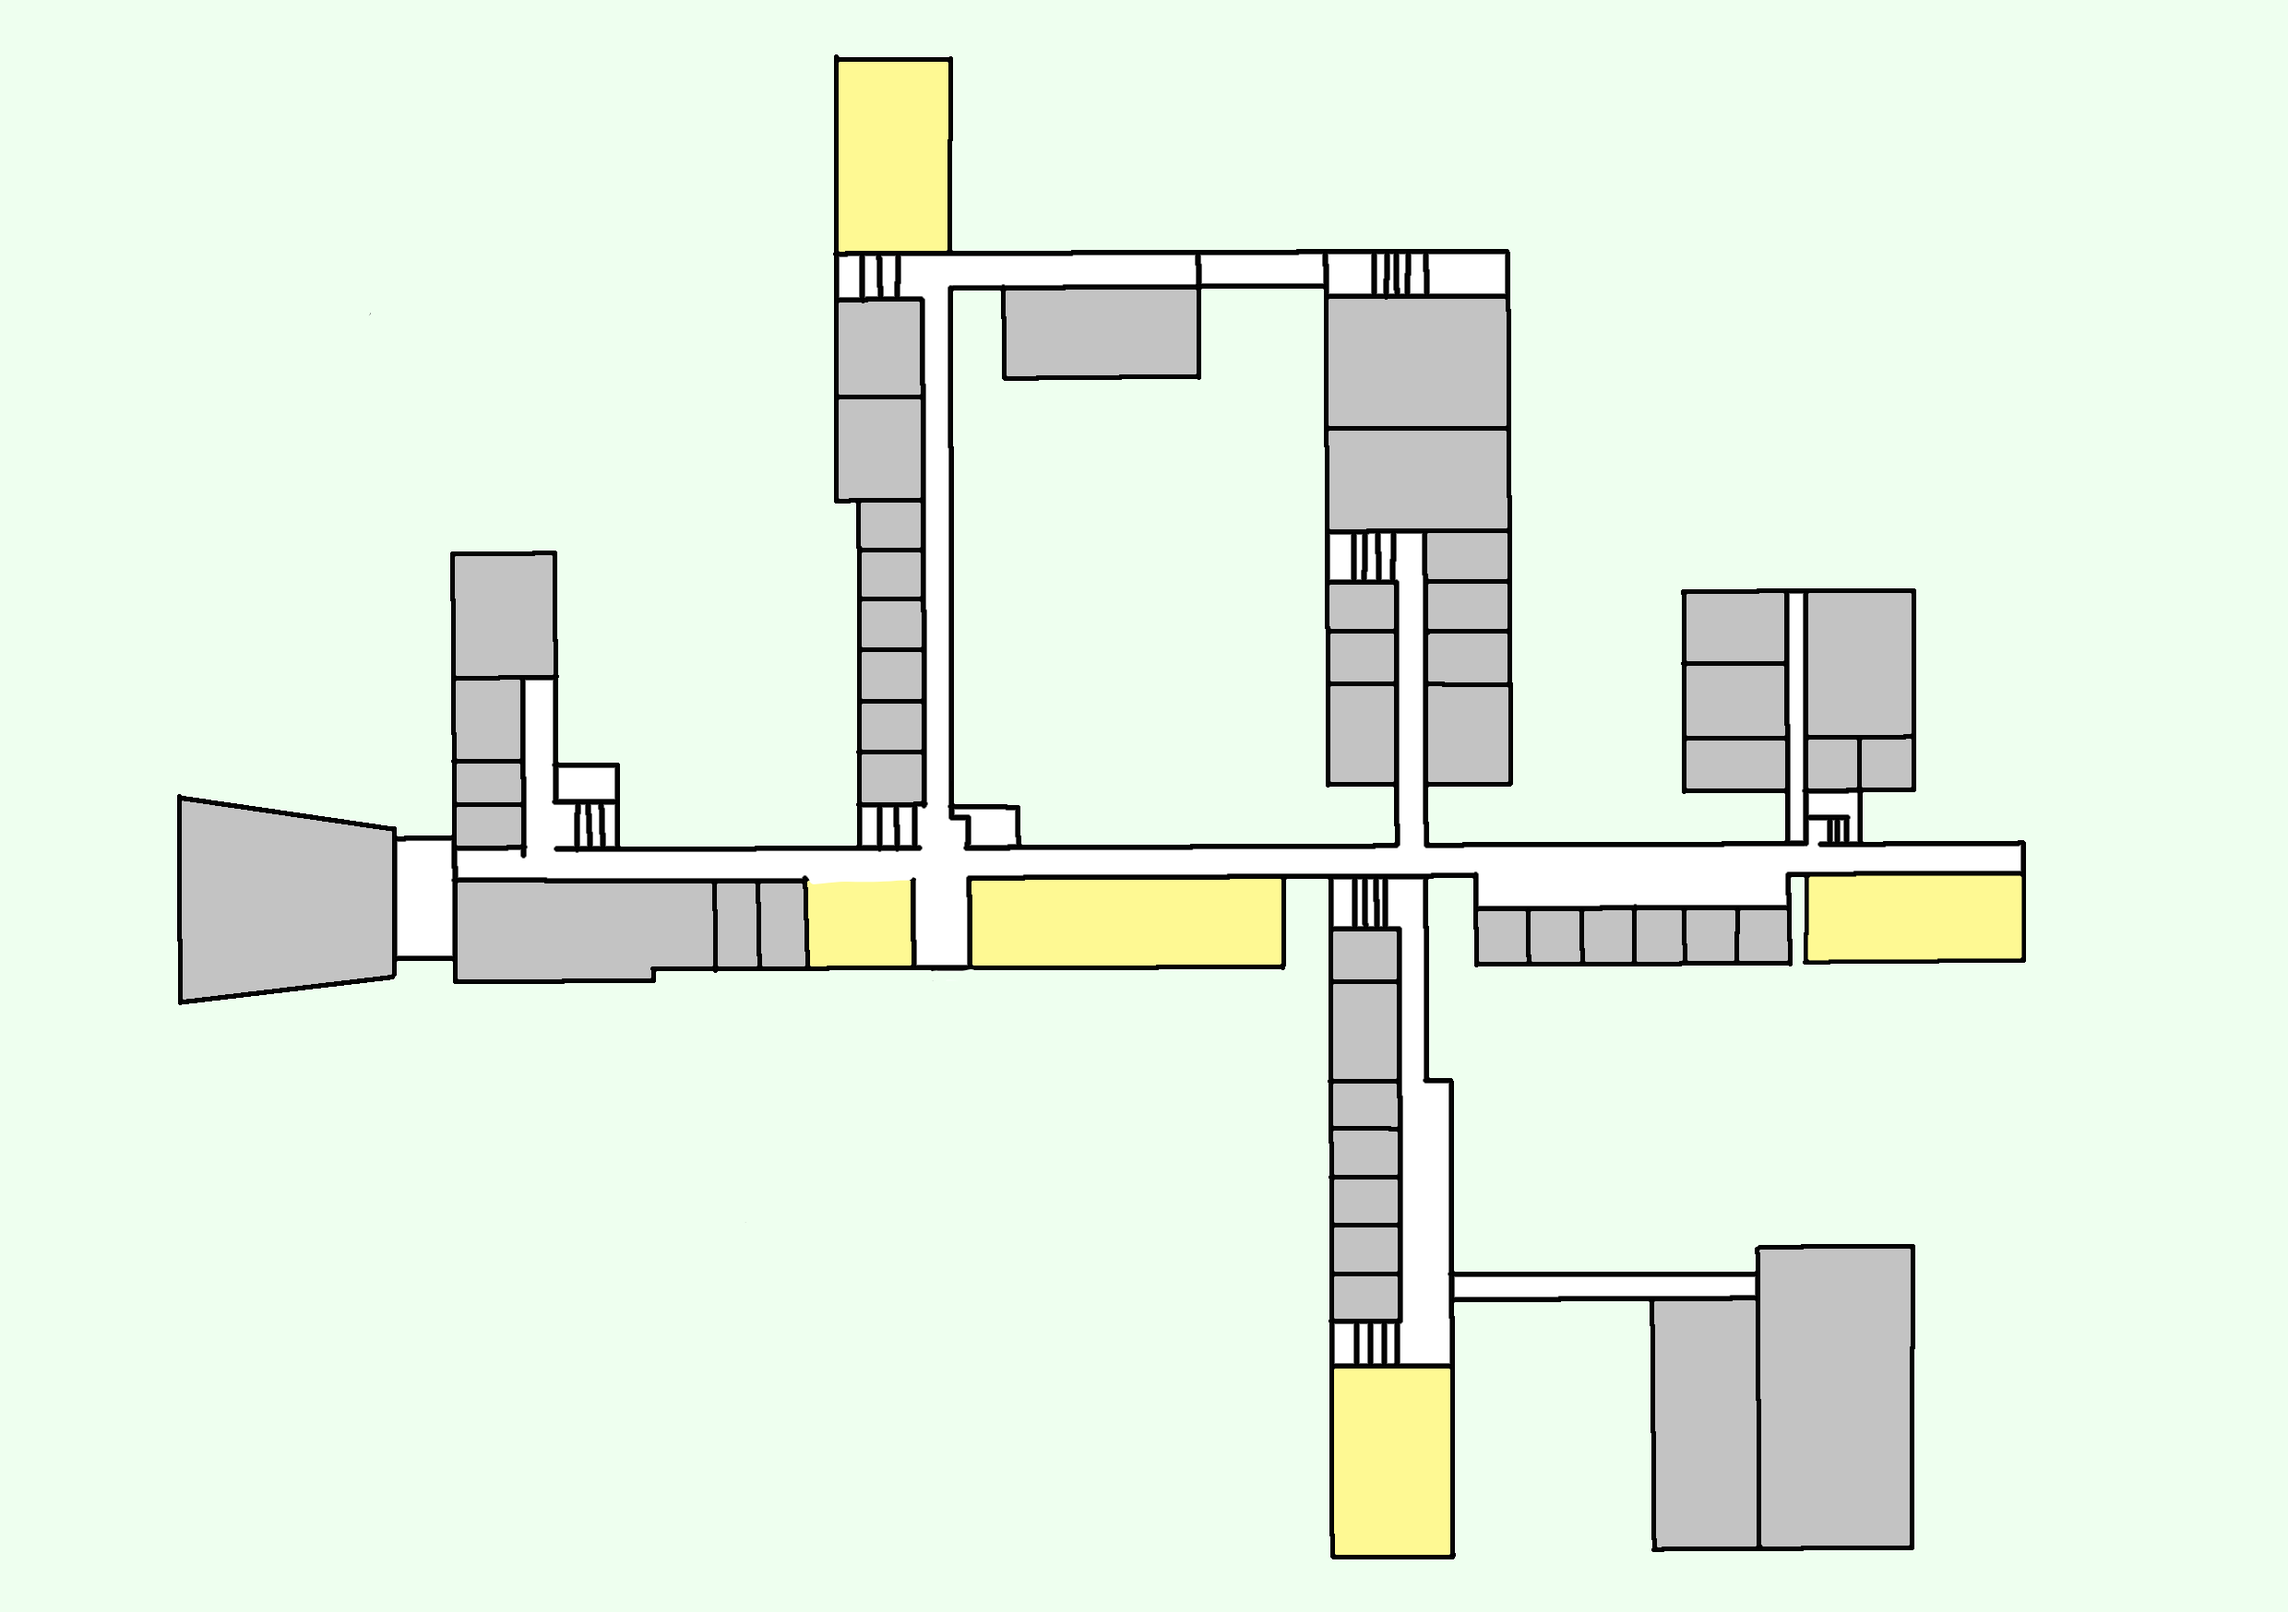
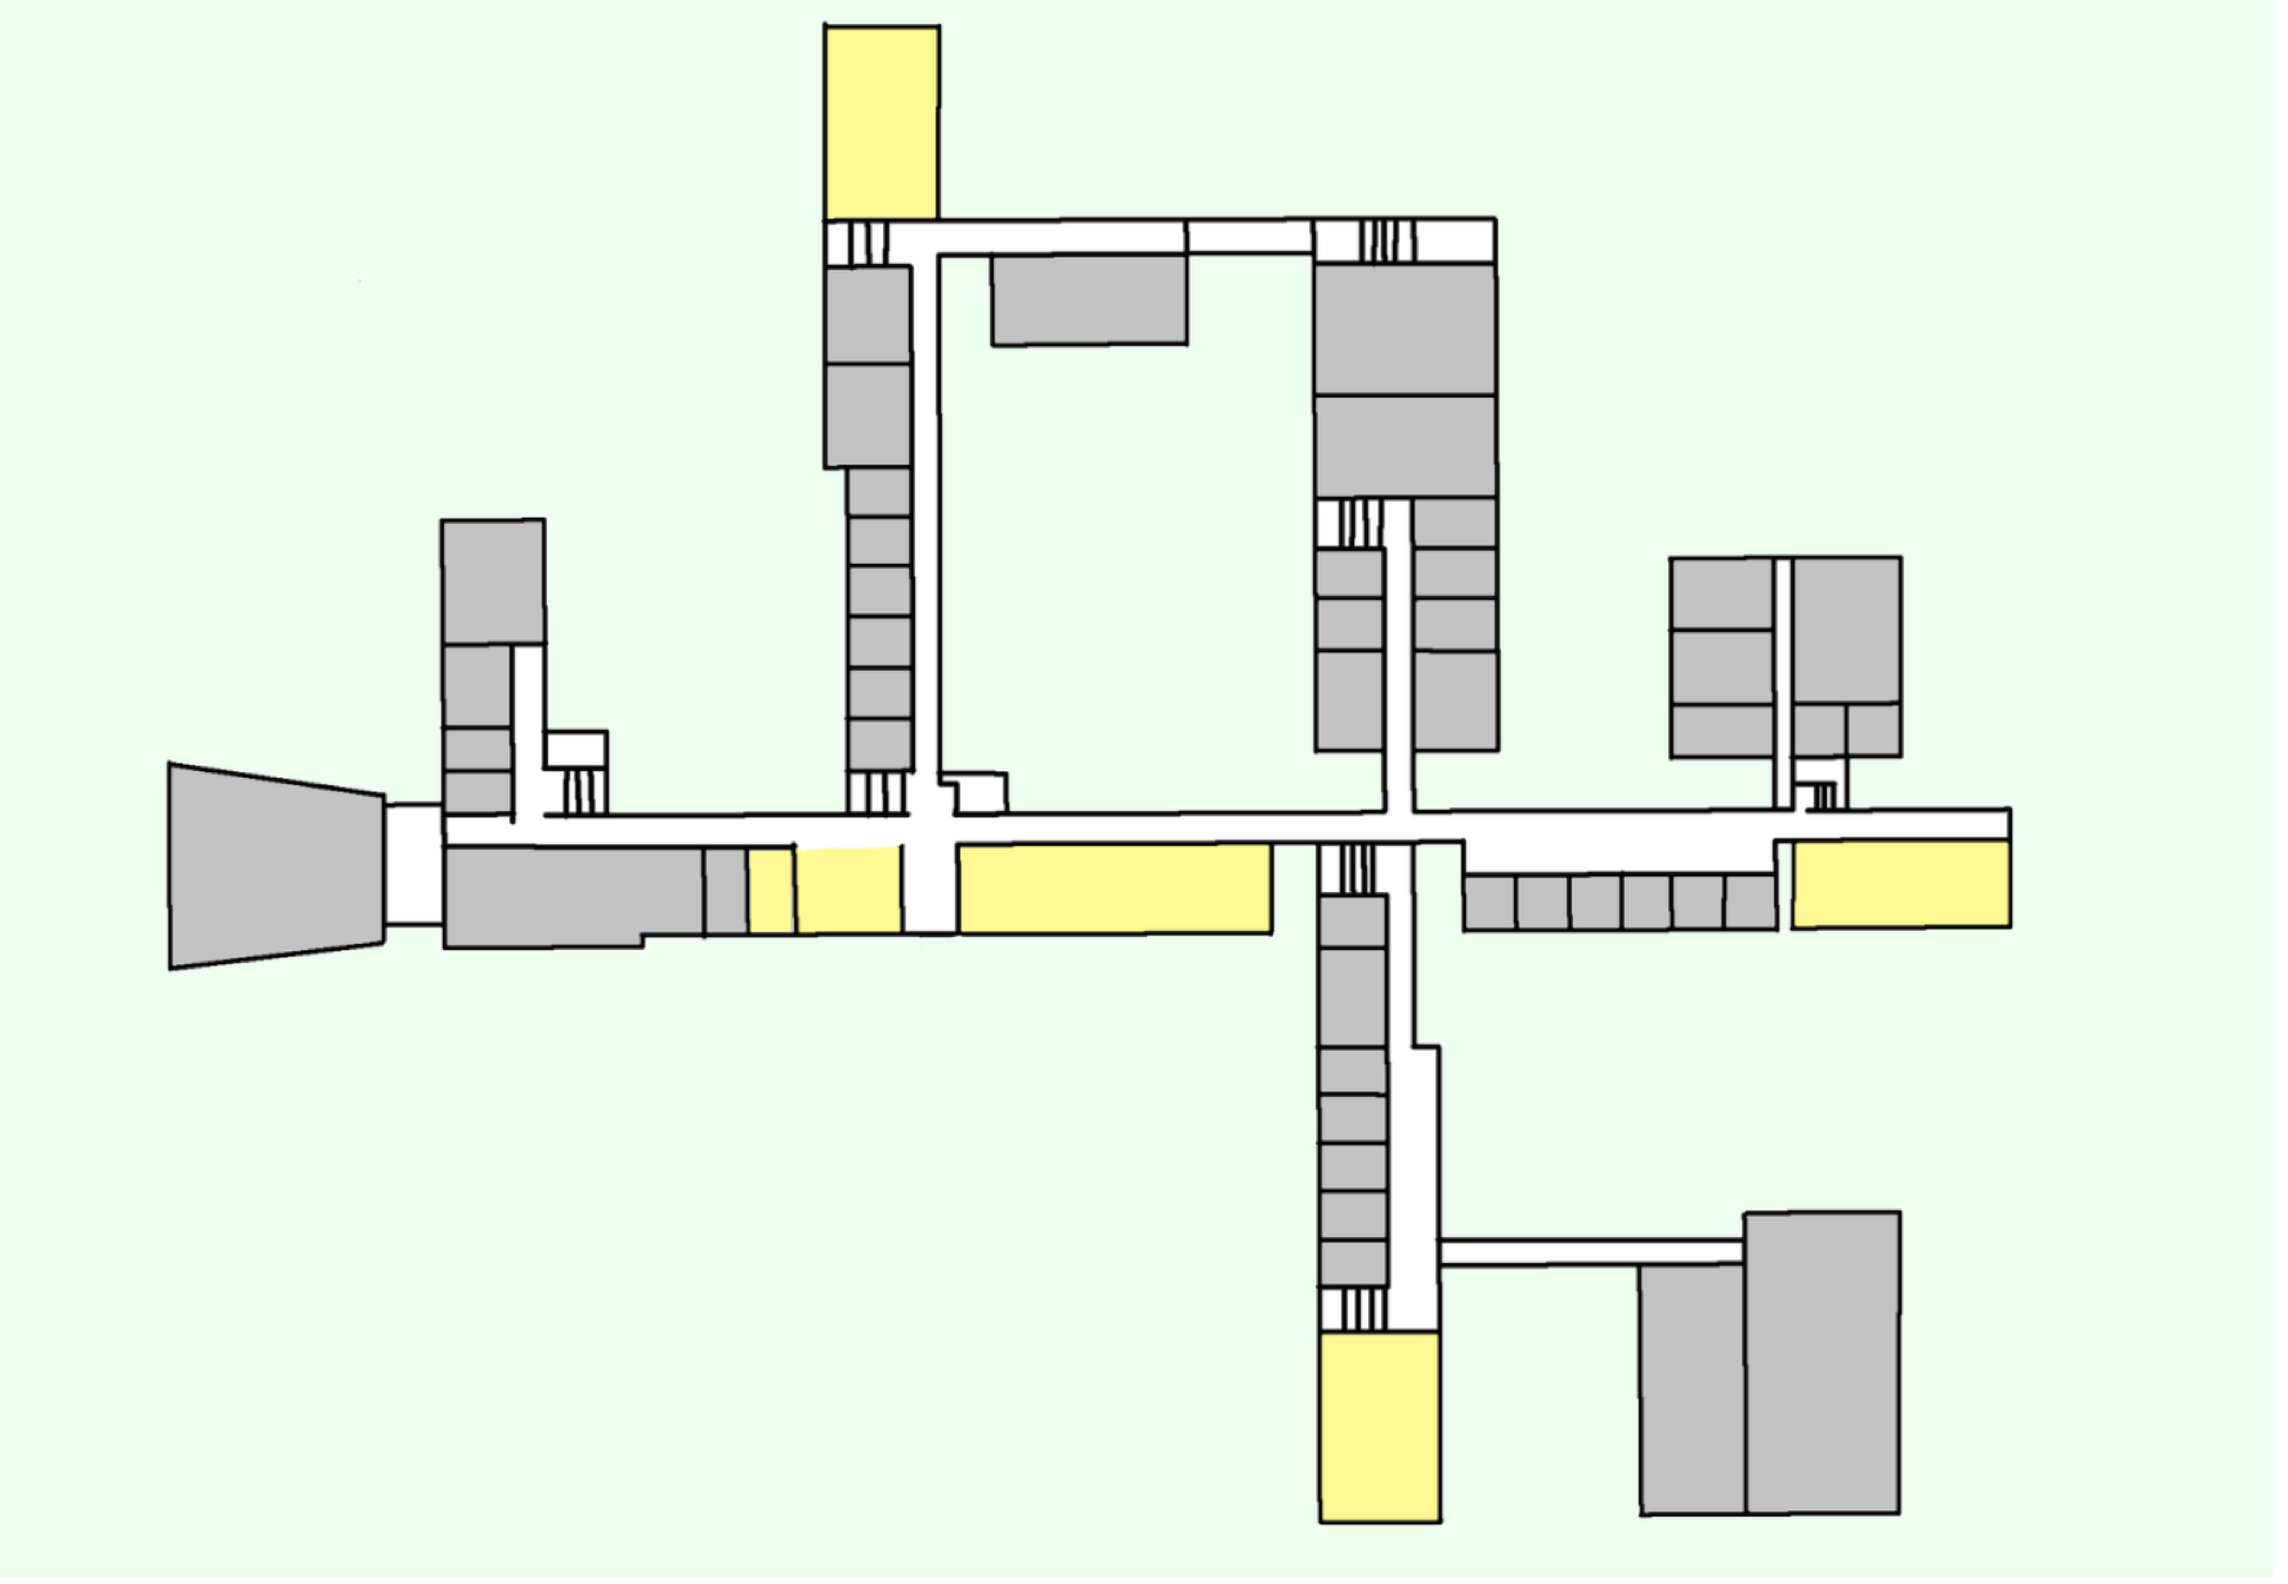
feat: 地図画像を更新

Changed region(s): [[0.0621, 0.0, 0.9004, 0.9878]]

diff --git a/apps/web/src/components/Maps/map-data.ts b/apps/web/src/components/Maps/map-data.ts
@@ -91,28 +91,28 @@ export const map3: Data = {
   id: "map3",
   image: image3,
   shops: [
-    { idx: 30, x: 45, y: 54 },
-    { idx: 31, x: 53, y: 54 },
-    { idx: 32, x: 82, y: 54 },
-    { idx: 29, x: 37.7, y: 54 },
-    { idx: 28, x: 34, y: 54 },
-    { idx: 27, x: 39.1, y: 21 },
-    { idx: 33, x: 86, y: 54 },
-    { idx: 34, x: 61, y: 79 },
+    { idx: 30, x: 45, y: 53 },
+    { idx: 31, x: 53, y: 53 },
+    { idx: 32, x: 82, y: 53 },
+    { idx: 29, x: 37.7, y: 53 },
+    { idx: 28, x: 34, y: 53 },
+    { idx: 27, x: 38.5, y: 20 },
+    { idx: 33, x: 86, y: 53 },
+    { idx: 34, x: 60, y: 77 },
   ],
   labels: [{ name: "管理・教育棟 2F", x: 10, y: 20 }],
-  statics: [{ id: "ごみ箱", x: 43.5, y: 50, color: "green" }],
+  statics: [{ id: "ごみ箱", x: 42.5, y: 49, color: "green" }],
 };
 
 export const map4: Data = {
   id: "map4",
   image: image4,
   shops: [
-    { idx: 35, x: 31, y: 55 },
-    { idx: 36, x: 38, y: 55 },
-    { idx: 37, x: 45, y: 55 },
-    { idx: 38, x: 51.5, y: 55 },
-    { idx: 39, x: 67.7, y: 55 },
+    { idx: 35, x: 32, y: 55 },
+    { idx: 36, x: 39, y: 55 },
+    { idx: 37, x: 46, y: 55 },
+    { idx: 38, x: 52, y: 55 },
+    { idx: 39, x: 69, y: 55 },
   ],
   labels: [{ name: "管理・教育棟 3F", x: 10, y: 20 }],
   statics: [],
